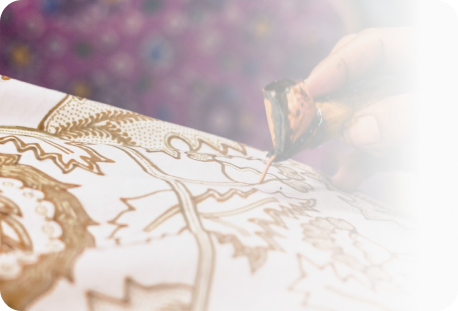
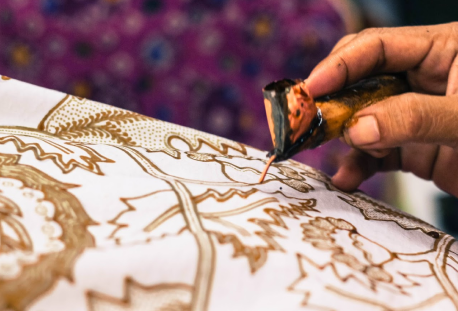
add administrasi, fix other

diff --git a/public/css/style.css b/public/css/style.css
@@ -35,6 +35,14 @@ a:hover {
 .border-r-10 {
     border-radius: 10px;
 }
+.wa:hover {
+    text-decoration: none;
+    color: var(--hover-color-primary);
+}
+.ic-down {
+    background-color: #4d787b;
+}
+
 
 /* NAVBAR */
 .navbar {
@@ -150,3 +158,49 @@ footer .bi {
 .bottom-footer > * {
     margin: 1rem 0.1 rem !important;
 }
+.news-header {
+    background-size: cover;
+    background-position: center;
+    height: 50vh;
+    color: #ffffff;
+}
+.fs-12p {
+    font-size: 12px !important;
+}
+
+.header-img {
+    background-size: cover;
+    background-position: center;
+    height: 50vh;
+    color: #ffffff;
+}
+.header-img h1,
+.header-img h2 {
+    font-weight: 700;
+}
+.header-img h1 {
+    font-size: 48px;
+}
+.header-img h2 {
+    font-size: 40px;
+}
+
+/* ---------------------- PARIWISATA & UMKM PAGE ------------------------- */
+.map-btn {
+    background-color: var(--color-primary);
+    border-radius: 10px;
+    font-size: 20px;
+    text-decoration: none;
+}
+.map-btn:hover {
+    background-color: var(--hover-color-primary);
+    text-decoration: none;
+}
+/* ---------------------- END OF PARIWISATA & UMKM PAGE ------------------------- */
+
+
+/* ---------------------- END OF BERITA PAGE ------------------------- */
+.card-title {
+    font-weight: 600;
+}
+/* ---------------------- END OF BERITA PAGE ------------------------- */

diff --git a/public/css/app.css b/public/css/app.css
@@ -52,6 +52,7 @@ a:hover {
     text-decoration: none;
 }
 
+
 /* END OF NAVBAR  */
 
 /*--------------------------------------------------------------
@@ -97,50 +98,7 @@ a:hover {
     opacity: 1;
 }
 
-.header-img {
-    background-image: url("../img/header_umkm.png");
-    background-size: cover;
-    background-position: center;
-    height: 50vh;
-    color: #ffffff;
-}
-.header-img h1,
-.header-img h2 {
-    font-weight: 700;
-}
-.header-img h1 {
-    font-size: 48px;
-}
-.header-img h2 {
-    font-size: 40px;
-}
 
-.map-btn {
-    background-color: var(--color-primary);
-    border-radius: 10px;
-    font-size: 20px;
-    text-decoration: none;
-}
-.map-btn:hover {
-    background-color: var(--hover-color-primary);
-    text-decoration: none;
-}
-.card-title {
-    font-weight: 600;
-}
-.wa:hover {
-    text-decoration: none;
-}
-
-.news-header {
-    background-size: cover;
-    background-position: center;
-    height: 50vh;
-    color: #ffffff;
-}
-.fs-12p {
-    font-size: 12px !important;
-}
 
 /*--------------------------------------------------------------
   # Override some default Bootstrap stylings
@@ -1156,6 +1114,3 @@ a:hover {
 }
 
 
-.ic-down {
-    background-color: #4d787b;
-}

diff --git a/public/js/app.js b/public/js/app.js
@@ -340,17 +340,3 @@
     }
 })();
 
-function pageactive() {
-    var pathArray = window.location.pathname.split("/");
-    var slug = pathArray[1];
-    var nav_link = document.querySelectorAll(".nav-link");
-    nav_link.forEach((element) => {
-        // console.log(element.textContent.toLowerCase());
-        // console.log(slug);
-        if (element.textContent.toLowerCase() == slug) {
-            element.classList.add("active");
-        }
-    });
-}
-
-pageactive();

diff --git a/resources/views/pages/web/administrasi.blade.php b/resources/views/pages/web/administrasi.blade.php
@@ -1,39 +1,46 @@
 @extends('layouts.web.template')
 @section('main')
-    <main>
-      <section>
+<main>
+    <section>
         <div class="container">
-          <div class="row">
-            <div class="col-12">
-              <h1 class="text-black fw-bold">Administrasi Desa</h1>
+            <div class="row">
+                <div class="col-12">
+                    <h1 class="text-black fw-bold">Administrasi Desa</h1>
+                </div>
+                <div class="col-10">
+                    <p class="text-black">Halaman ini memuat berkas-berkas dan surat untuk keperluan warga Desa Srigonco
+                        yang diupdate secara berkala, serta transparansi keuangan desa Srigonco mengenai beberapa sumber
+                        bidang dan jumlah pendapatan desa pada tahun anggaran 2022. </p>
+                </div>
             </div>
-            <div class="col-10">
-              <p class="text-black">Halaman ini memuat berkas-berkas dan surat untuk keperluan warga Desa Srigonco yang diupdate secara berkala, serta transparansi keuangan desa Srigonco mengenai beberapa sumber bidang dan jumlah pendapatan desa pada tahun anggaran 2022. </p>
+            <div class="card p-4 d-flex flex-lg-row flex-column row border-r-15 my-2">
+                <div class="col-lg-8 col-12">
+                    <h3 class="text-black fw-semibold">Berkas Administrasi</h3>
+                    <p>Lorem ipsum dolor sit amet, consectetur adipiscing elit. Viverra aenean tincidunt amet, sed
+                        quisque. </p>
+                </div>
+                <div class="col-lg-4 col-12 d-flex flex-column align-items-end">
+                    <p><em>Update terakhir : 9 Juli 2022</em></p>
+                    <a class="fw-bold rounded-3 bg-primary ps-2 text-decoration-none" href="" target="_blank">Unduh <img
+                            class="ic-down p-2 rounded-3" src="{{ asset('img/ic_download.svg') }}" alt=""></a>
+                </div>
             </div>
-          </div>
-            <div class="card p-4 d-flex flex-lg-row flex-column row border-r-15">
-              <div class="col-lg-8 col-12">
-                <h3 class="text-black fw-semibold">Berkas Administrasi</h3>
-                <p>Lorem ipsum dolor sit amet, consectetur adipiscing elit. Viverra aenean tincidunt amet, sed quisque. </p>
-              </div>
-              <div class="col-lg-4 col-12 d-flex flex-column align-items-end">
-                <p><em>Update terakhir : 9 Juli 2022</em></p>
-                <a class="fw-bold rounded-3 bg-primary ps-2 text-decoration-none" href="" target="_blank">Unduh <img class="ic-down p-2 rounded-3" src="{{ asset('img/ic_download.svg') }}" alt=""></a>
-              </div>
+            <div class="row my-4">
+                <div class="col-lg-6 col-12 mb-4">
+                    <img class="w-100 h-100" src="{{ asset('img/siskeudes.png') }}" alt="">
+                </div>
+                <div class="col-lg-6 col-12 d-flex flex-column  ">
+                    <h3 class="fw-bold text-black">Infografis APBDes 2022 Desa Srigonco Kecamatan Bantur</h3>
+                    <h4>Anggaran Pendapatan dan Belanja Desa Pemerintah Srigonco Tahun Anggaran 2022</h4>
+                    <p>Lorem ipsum dolor sit amet, consectetur adipiscing elit. Elit proin bibendum sem amet adipiscing.
+                        Lorem diam eros feugiat a imperdiet semper id pulvinar. Diam, pharetra morbi facilisis lectus.
+                    </p>
+                    <a class="fw-bold rounded-3 bg-primary ps-2 text-decoration-none align-self-start" href="" target="_blank">Unduh 
+                      <img class="ic-down p-1 rounded-3 my-auto" src="{{ asset('img/ic_download.svg') }}" alt="">
+                    </a>
+                </div>
             </div>
-          <div class="row">
-            <div class="col-6">
-              <img class="w-100 h-100" src="{{ asset('img/siskeudes.png') }}" alt="">
-            </div>
-            <div class="col-6">
-              <h3 class="fw-bold text-black">Infografis APBDes 2022 Desa Srigonco Kecamatan Bantur</h3>
-              <h4>Anggaran Pendapatan dan Belanja Desa Pemerintah Srigonco Tahun Anggaran 2022</h4>
-              <p>Lorem ipsum dolor sit amet, consectetur adipiscing elit. Elit proin bibendum sem amet adipiscing. Lorem diam eros feugiat a imperdiet semper id pulvinar. Diam, pharetra morbi facilisis lectus. </p>
-              <a class="fw-bold rounded-3 bg-primary ps-2 text-decoration-none" href="" target="_blank">Unduh <img class="ic-down p-2 rounded-3" src="{{ asset('img/ic_download.svg') }}" alt=""></a>
-
-            </div>
-          </div>
         </div>
-      </section>
-    </main>
+    </section>
+</main>
 @endsection

diff --git a/resources/views/pages/web/pariwisata.blade.php b/resources/views/pages/web/pariwisata.blade.php
@@ -2,11 +2,11 @@
 @section('main')
 <main>
     <section>
-        <div class="header-img p-4 d-flex flex-column justify-content-end" style="background-image: url('../img/header_umkm.png');">
-            <div class="container">
-                <h1 class="mt-4">UMKM SRIGONCO</h1>
-                <h2>SEMANGAT!</h2>
-            </div>
+        <div class="header-img p-4 d-flex flex-column justify-content-end" style="background-image: url('{{asset('img/header-pariwisata.png')}}');">
+          <div class="container">
+            <h1 class="mt-4">PARIWISATA SRIGONCO</h1>
+            <h2>SEMANGAT!</h2>
+          </div>  
         </div>
         <div class="container mt-4">
             <div class="row">
@@ -15,18 +15,12 @@
                         <img class="rounded-3 w-100" src="{{ asset('img/batik.png') }}" alt="Missing Photo">
                     </div>
                     <div class="col-lg-9 col-12 p-4">
-                        <div class="d-flex justify-content-between">
-                            <h3 class="card-title text-black">Batik Tulis Sridadali</h3>
-                            <div class="d-flex justify-content-center gap-4">
-                                <a href=""><img src="{{ asset('img/ic-shopee.png') }}" alt="missing logo" width="46" height="46"></a>
-                                <a href=""><img src="{{ asset('img/ic-shopee.png') }}" alt="missing logo" width="46" height="46"></a>
-                            </div>
-                        </div>
+                            <h3 class="card-title text-black">Pantai Balekambang</h3>
                         <p>Lorem ipsum dolor sit amet, consectetur adipiscing elit. Viverra aenean tincidunt amet, sed
                             quisque. Sit iaculis congue aliquet consectetur sit. Quisque interdum at eget cursus.</p>
                         <div class="row align-items-center">
                             <div class="col-8">
-                                <h6>Produk :</h6>
+                                <h6>HTM :</h6>
                                 <a href="" class="wa"><i class="fs-4 bi bi-whatsapp "></i> 0895394832984</a>
                             </div>
                             <div class="col-4 d-flex justify-content-end">

diff --git a/resources/views/pages/web/profil.blade.php b/resources/views/pages/web/profil.blade.php
@@ -37,17 +37,18 @@
             <div class="row">
                 <div class="border-r-15 bg-primary col-12 p-4 mt-4">
                     <h3 class="text-center text-black">Struktur Desa Srigonco</h3>
+                    <img class="w-100" src="{{ asset('img/struktur-desa.png') }}" alt="">
                 </div>
                 <div class="my-4 row">
-                    <div class="col-4 d-flex justify-content-center">
+                    <div class="col-lg-4 col-12 d-flex justify-content-center my-4">
                         <iframe class="h-100 border-r-10" src="https://www.youtube.com/embed/fN5daMGykKs">
                         </iframe>
                     </div>
-                    <div class="col-4">
+                    <div class="col-lg-4 col-12 d-flex justify-content-center my-4">
                         <iframe class="h-100 border-r-10" src="https://www.youtube.com/embed/FvTiBZlUx68">
                         </iframe>
                     </div>
-                    <div class="col-4">
+                    <div class="col-lg-4 col-12 d-flex justify-content-center my-4">
                         <iframe class="h-100 border-r-10" src="https://www.youtube.com/embed/xR-vxJ7PEyQ">
                         </iframe>
                     </div>

diff --git a/resources/views/layouts/web/navbar.blade.php b/resources/views/layouts/web/navbar.blade.php
@@ -15,6 +15,7 @@
         <a class="nav-link {{ $route === 'berita' ? "active" : "" }}" href="{{ url('/berita') }}">Berita</a>
         <a class="nav-link {{ $route === 'pariwisata' ? "active" : "" }}" href="{{ url('/pariwisata') }}">Pariwisata</a>
         <a class="nav-link {{ $route === 'umkm' ? "active" : "" }}" href="{{ url('/umkm') }}">UMKM</a>
+        <a class="nav-link {{ $route === 'administrasi' ? "active" : "" }}" href="{{ url('/administrasi') }}">Administrasi</a>
       </div>
     </div>
   </div>

diff --git a/routes/web.php b/routes/web.php
@@ -26,6 +26,9 @@ Route::get('/berita', function () {
 Route::get('/umkm', function () {
     return view('pages.web.umkm', ["route"=>"umkm"]);
 });
+Route::get('/pariwisata', function () {
+    return view('pages.web.pariwisata', ["route"=>"pariwisata"]);
+});
 Route::get('/profil', function () {
     return view('pages.web.profil', ["route"=>"profil"]);
 });
